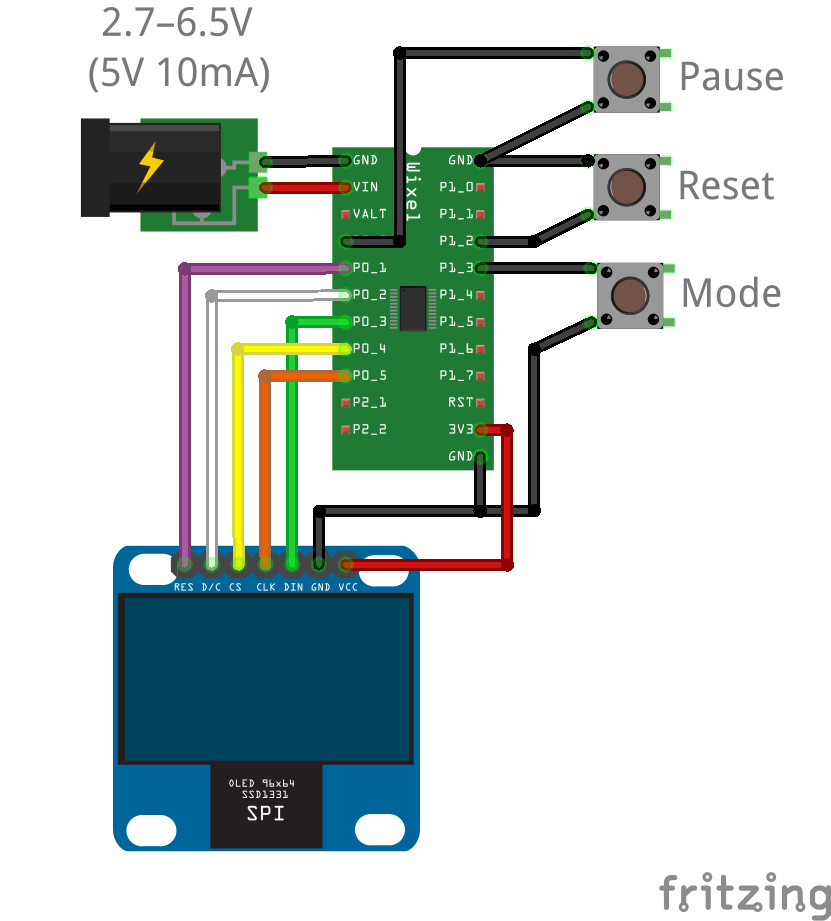
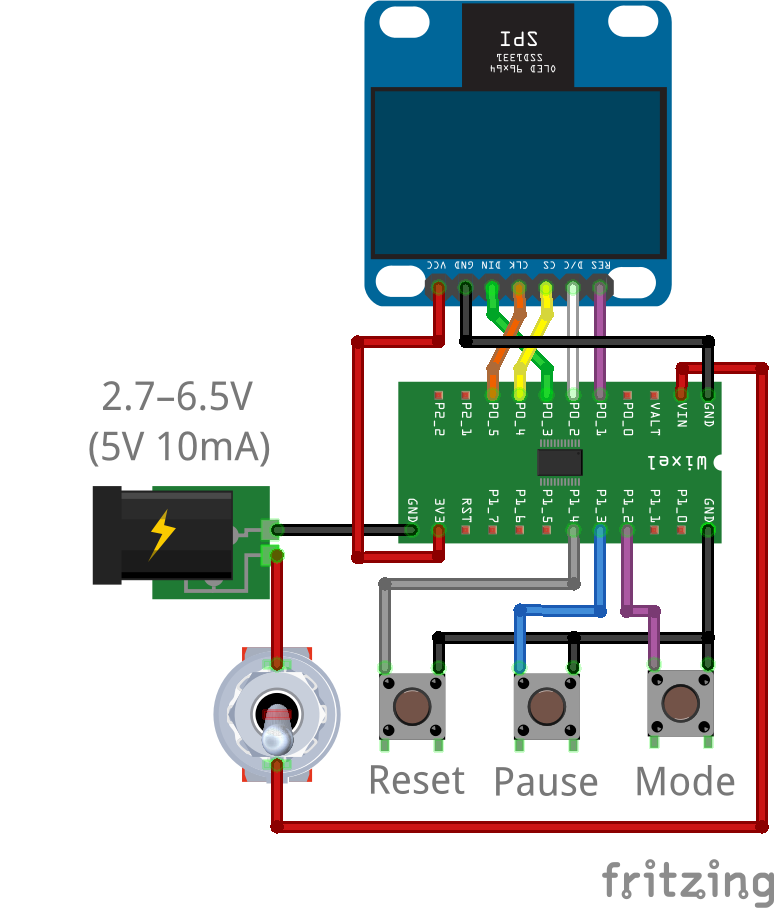
ssd1331

diff --git a/Wixel/Wixel_oled_ssd1331/wixel-sdk/apps/Wixel_oled_ssd1331/Wixel_oled_ssd1331.c b/Wixel/Wixel_oled_ssd1331/wixel-sdk/apps/Wixel_oled_ssd1331/Wixel_oled_ssd1331.c
@@ -815,7 +815,7 @@ void pressButtoms(void)
 {
     uint8 channel;
     
-    if (!isPinHigh(12) && state != 2 && pause) // Measure voltage on P1_2
+    if (!isPinHigh(14) && state != 2 && pause) // Measure voltage on P1_4 (Reset)
     {
         for (channel = 96; channel > 0; channel--)
         {
@@ -827,7 +827,7 @@ void pressButtoms(void)
         //clearWindow(0, 0, 95, 63);
     }
     
-    if (!isPinHigh(13) && pause) // Measure voltage on P1_3
+    if (!isPinHigh(12) && pause) // Measure voltage on P1_2 (Mode)
     {
         if (state == 2)
             state = 0;
@@ -850,13 +850,13 @@ void pressButtoms(void)
             break;
         }
       
-        while(!isPinHigh(13));
+        while(!isPinHigh(12));
     }
     
-    if (!isPinHigh(0)) // Measure voltage on P0_0
+    if (!isPinHigh(13)) // Measure voltage on P1_3 (Pause)
     {
         pause = !pause;
-        while(!isPinHigh(0));
+        while(!isPinHigh(13));
     }
 }
 
@@ -951,7 +951,7 @@ void normalizedWiFi(void)
         if (WiFi[i] > max)
             max = WiFi[i];
     
-    for(i = 2; i < 12; i++)
+    for (i = 2; i < 12; i++)
         WiFi[i] = (uint8) (20 * (max - WiFi[i]) / max);
 }
 
@@ -964,7 +964,7 @@ void normalizedZigBee(void)
         if (ZigBee[i] > max)
             max = ZigBee[i];
     
-    for(i = 12; i < 25; i++)
+    for (i = 12; i < 25; i++)
         ZigBee[i] = (uint8) (20 * (max - ZigBee[i]) / max);
 }
 
@@ -1048,7 +1048,7 @@ void checkRadioChannels(void)
                 rssiHalfValue[channel/2] += 105;
         }
         
-        if (!isPinHigh(0) || !isPinHigh(12) || !isPinHigh(13))
+        if (!isPinHigh(12) || !isPinHigh(13) || !isPinHigh(14))
             pressButtoms();
     }  // the above loop takes about 414 ms on average, so about 1.6 ms/channel
     
@@ -1085,7 +1085,6 @@ void checkRadioChannels(void)
     
     LED_GREEN(0);
 }
-
 
 void main()
 {
@@ -1137,7 +1136,7 @@ void main()
             LED_RED(1);
         }
         
-        if (!isPinHigh(0) || !isPinHigh(12) || !isPinHigh(13))
+        if (!isPinHigh(12) || !isPinHigh(13) || !isPinHigh(14))
             pressButtoms();
     }
 }

diff --git a/Wixel/Wixel_oled_ssd1331/README.md b/Wixel/Wixel_oled_ssd1331/README.md
@@ -6,6 +6,7 @@ Spectrum analyzer on Pololu Wixel with SPI OLED's SSD1331. This scheme takes les
 
 1. Pololu Wixel ([fritzing part](../../fritzing-parts/OLED%200.96%20128x64%20I2C%20SSD1306.fzpz))
 2. OLED 0.95" 96×64 SPI SSD1331 ([fritzing part](../../fritzing-parts/OLED%200.95%2096x64%20SPI%20SSD1331.fzpz))
+3. Four switchers.
 
 [![Wixel_oled_ssd1331_video](./pics/Wixel_oled_ssd1331_video.png)](https://www.youtube.com/watch?v=7rlPyKthjLw "Spectrum Analyzer 2.4 GHz on Wixel with OLED SSD1331")
 
@@ -41,19 +42,19 @@ Button __Pause__ stops processes. Button __Reset__ puts maximum graph. Button __
 | 3V3      | VCC           |
 | GND      | GND           |
 
-| Wixel    | Pause switch  |
-| -------- | ------------- |
-| P0_0     | normally open |
-| GND      | normally open |
-
-| Wixel    | Reset switch  |
+| Wixel    | Mode switch   |
 | -------- | ------------- |
 | P1_2     | normally open |
 | GND      | normally open |
 
-| Wixel    | Mode switch   |
+| Wixel    | Pause switch  |
 | -------- | ------------- |
 | P1_3     | normally open |
+| GND      | normally open |
+
+| Wixel    | Reset switch  |
+| -------- | ------------- |
+| P1_4     | normally open |
 | GND      | normally open |
 
 | Wixel    | power supply  |
@@ -80,3 +81,7 @@ The second mode is different information about the free channels instead of the 
 The last mode displays ZigBee and Wi-Fi channels (not all channels fall within the available range). The higher the channel in the histogram, the more free.
 
 ![Wixel_oled_ssd1331_photo](./pics/Wixel_oled_ssd1331_4.png)
+
+Prototype is assembled in a clear acrylic case for Raspberry Pi, but can be built more compactly. Left button — switch on, the second one — reset, the third — pause, the fourth — mode selection.
+
+![Wixel_oled_ssd1331_photo](./pics/Wixel_oled_ssd1331_5.png)
